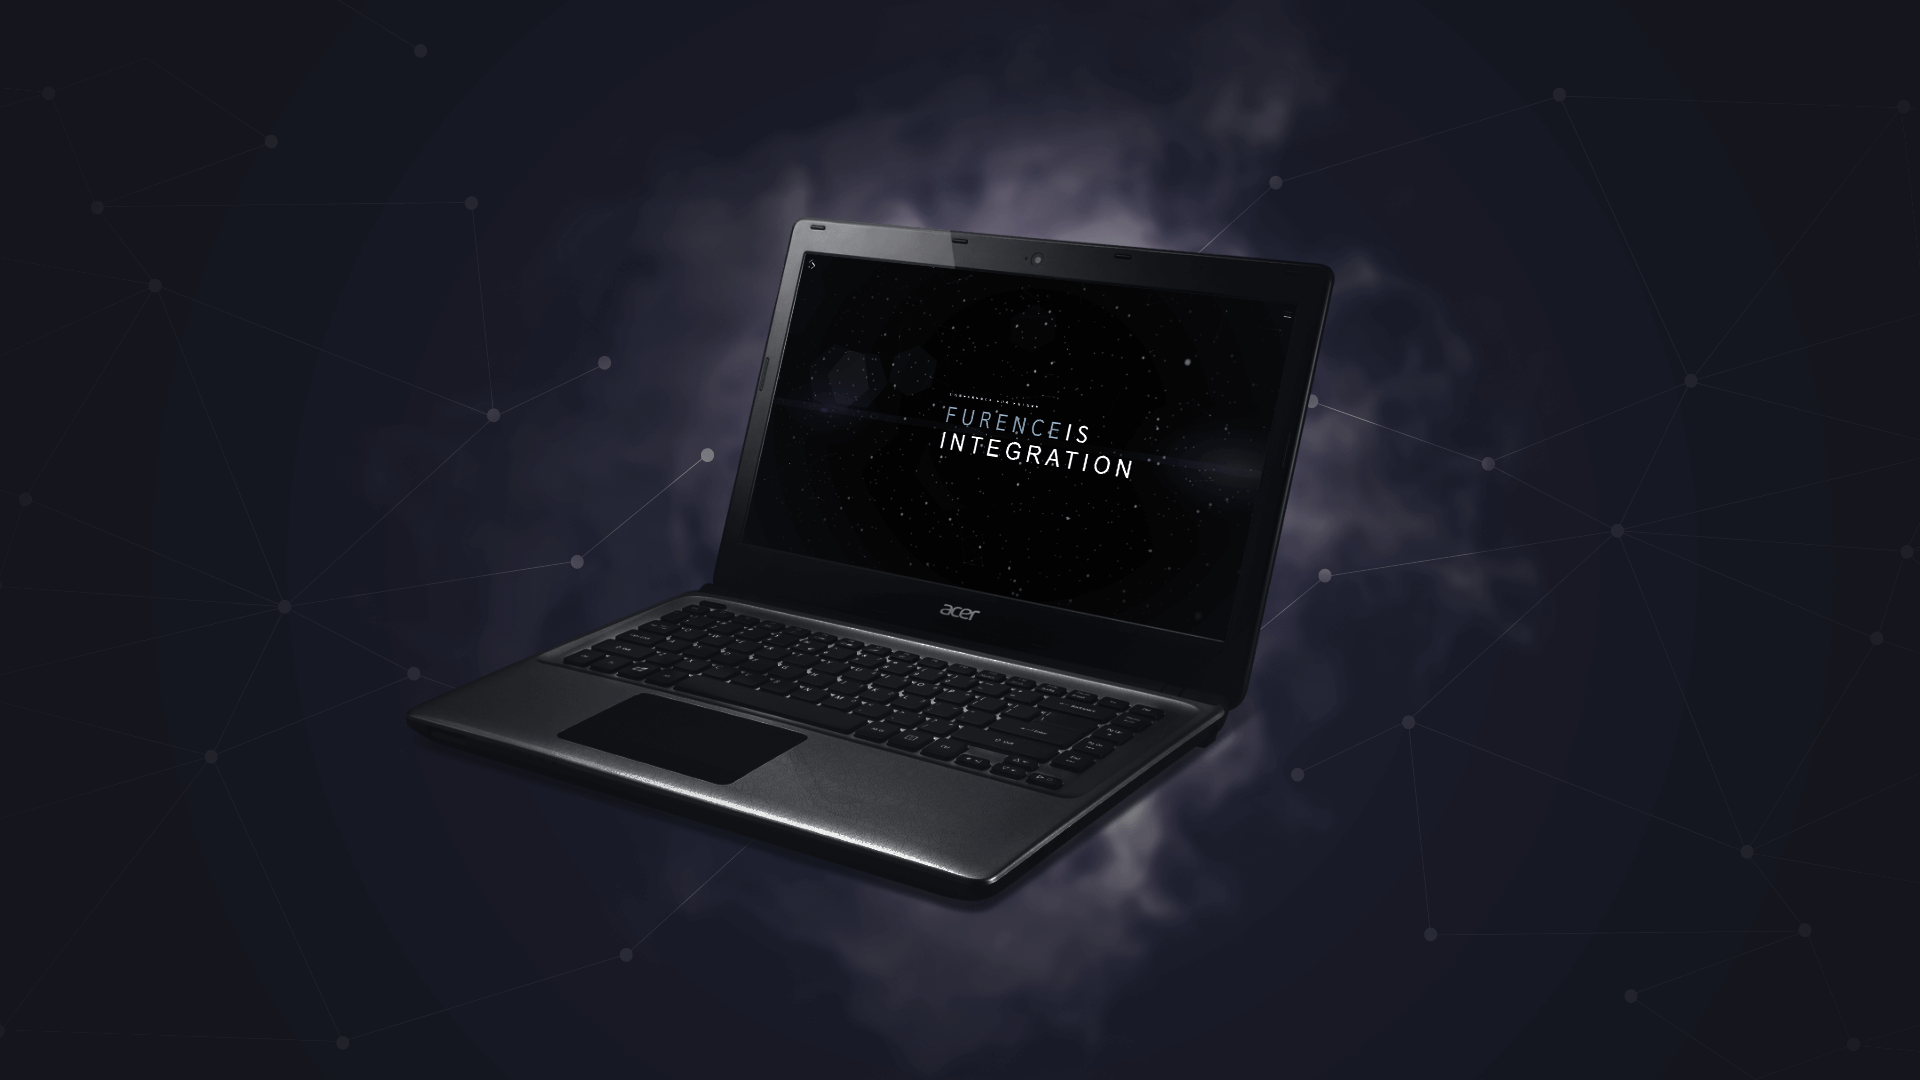
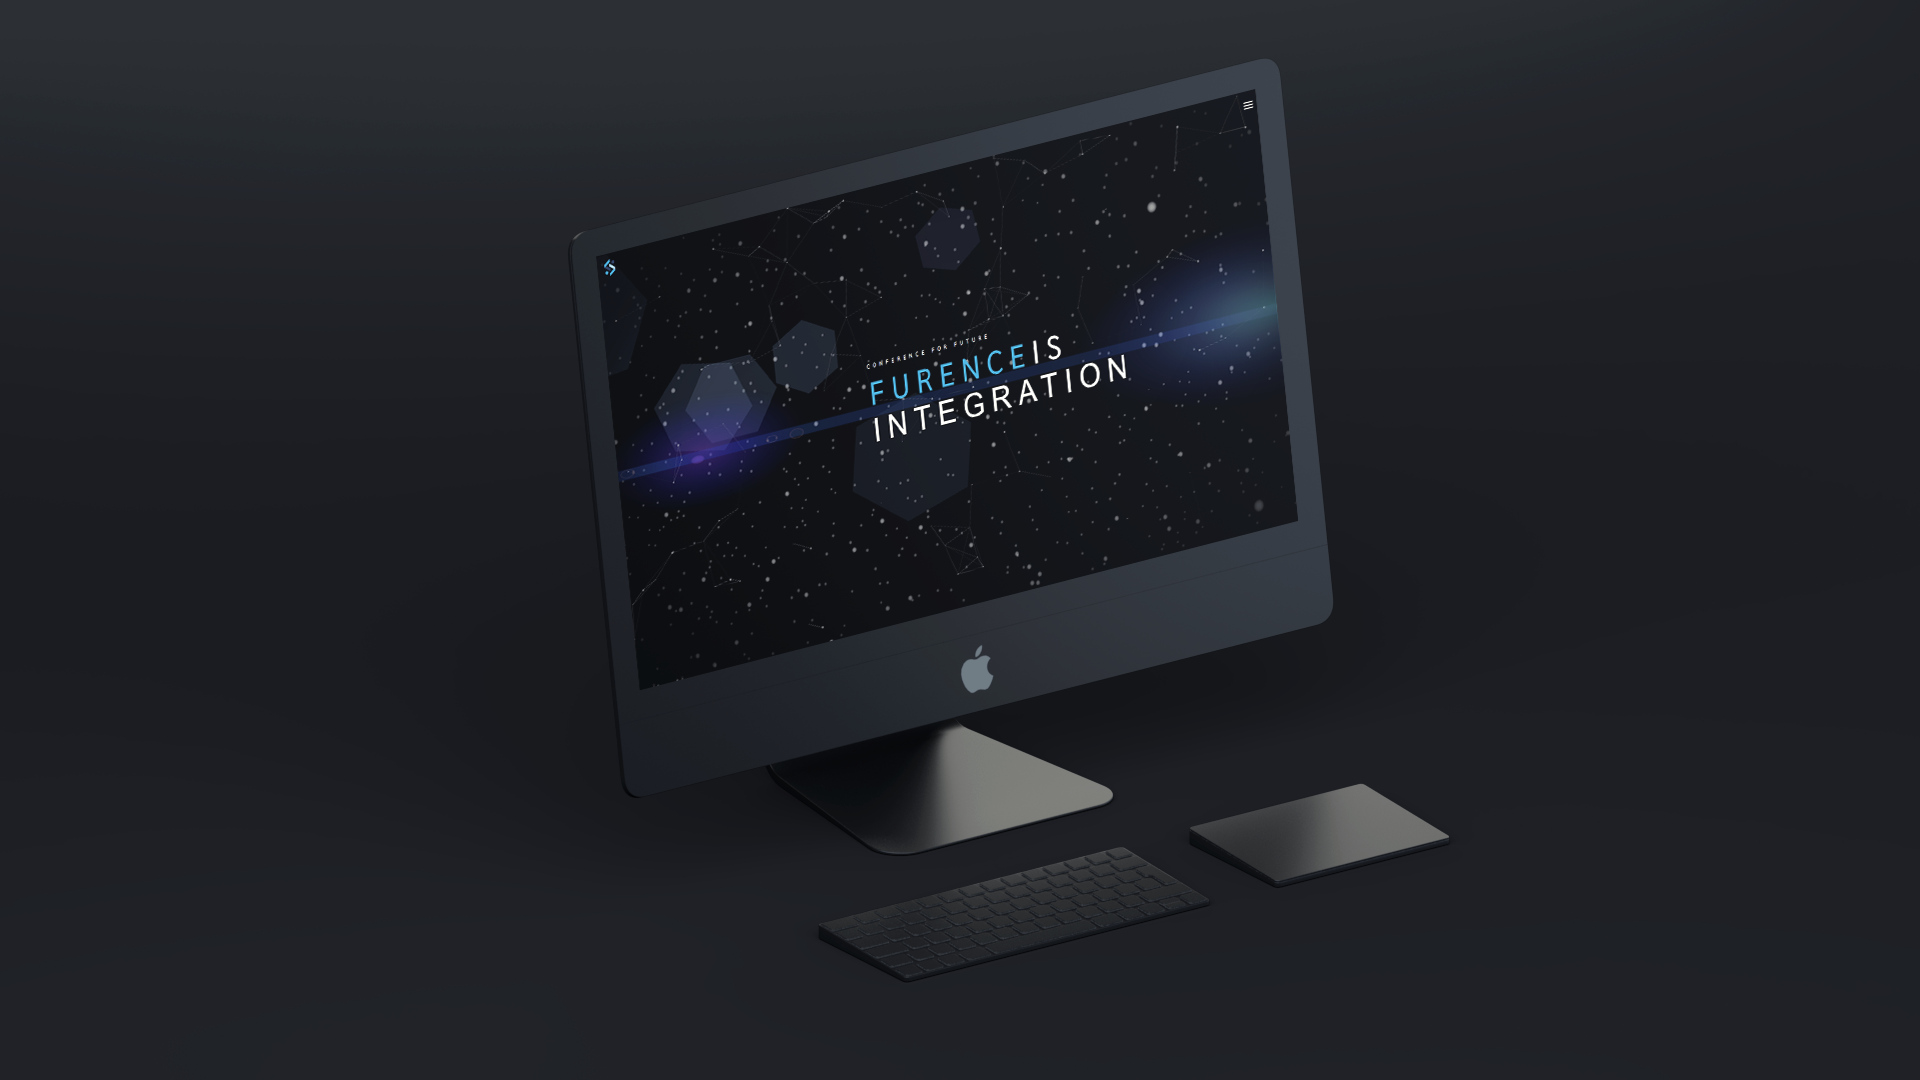
0519
changed images, color theme, ETC

diff --git a/css/style.css b/css/style.css
@@ -71,10 +71,7 @@ body {
     background: #111727;
     font-size: 4rem;
     padding: 0 5%;
-    color: #e8ebf1;
-    display: flex;
-    align-items: center;
-    justify-content: flex-start; }
+    color: #e8ebf1; }
     .wrapper .menu .mobile {
       font-size: 18px;
       line-height: 1.2;
@@ -109,6 +106,25 @@ body {
           transform-origin: bottom left;
           transform: scaleX(1) translate(0, 50%);
           background-color: #e8ebf1; }
+    .wrapper .menu div {
+      display: flex;
+      align-items: center;
+      justify-content: flex-start;
+      height: 100%; }
+    .wrapper .menu .menuWrapper {
+      float: left; }
+    .wrapper .menu .imageWrapper {
+      float: right;
+      width: 40%; }
+      .wrapper .menu .imageWrapper .preview {
+        width: 100%;
+        height: 80%;
+        background: url(../img/jun.png) no-repeat center center;
+        background-size: cover;
+        transition: .2; }
+      @media screen and (max-width: 576px) {
+        .wrapper .menu .imageWrapper {
+          display: none; } }
   .wrapper .top_bar {
     position: fixed;
     z-index: 1000;
@@ -175,7 +191,7 @@ body {
   width: 50px;
   z-index: 1110; }
   .toggle-menu span {
-    background-color: #fff;
+    background-color: #182338;
     content: "";
     display: block;
     height: 2px;
@@ -186,7 +202,7 @@ body {
     transition: background-color 0.2s ease-in-out, top 0.2s 0.2s ease-out,  transform 0.2s linear;
     width: 26px; }
     .toggle-menu span:before, .toggle-menu span:after {
-      background-color: #fff;
+      background-color: #182338;
       content: "";
       display: block;
       height: 2px;
@@ -205,10 +221,12 @@ body {
       transition: top 0.2s ease-out, transform 0.2s 0.2s ease-out; }
     .toggle-menu.active span:before {
       top: 0;
-      transform: rotate3d(0, 0, 1, -45deg); }
+      transform: rotate3d(0, 0, 1, -45deg);
+      background: #fff; }
     .toggle-menu.active span:after {
       top: 0;
-      transform: rotate3d(0, 0, 1, 45deg); }
+      transform: rotate3d(0, 0, 1, 45deg);
+      background: #fff; }
 
 .blog-slider {
   position: relative;
@@ -232,7 +250,7 @@ body {
   .blog-slider .profile .project-header {
     background: url("../img/jun.png") no-repeat; }
   .blog-slider .project01 .project-header {
-    background: url("../img/furence.jpg") no-repeat; }
+    background: url("../img/furence.png") no-repeat; }
   .blog-slider .project02 .project-header {
     background: url("../img/renewal.png") no-repeat; }
   .blog-slider .project03 .project-header {
@@ -354,7 +372,8 @@ body {
     position: absolute;
     right: 0;
     z-index: 200;
-    background: #182338;
+    background: #fff;
+    border-left: transparent;
     transition: all 0.5s; }
     @media screen and (max-width: 576px) {
       .blog-slider__item .content_wrapper {
@@ -517,15 +536,17 @@ body {
       transition: all 0.4s; }
     .blog-slider__content .info {
       font-size: 20px;
-      color: #9ea7c5;
+      color: #333;
       margin-top: 100px; }
       .blog-slider__content .info p {
         margin: 5px 0; }
       @media screen and (max-width: 576px) {
         .blog-slider__content .info {
           display: none; } }
+      .blog-slider__content .info .sns {
+        font-size: 26px; }
   .blog-slider__code {
-    color: #9ea7c5;
+    color: #333;
     display: block;
     font-weight: 300;
     font-size: 20px; }
@@ -537,7 +558,7 @@ body {
   .blog-slider__title {
     font-family: "Playfair Display", serif;
     font-size: 8vw;
-    color: #e8ebf1;
+    color: #182338;
     margin-bottom: 20px;
     line-height: 1; }
     @media screen and (max-width: 576px) {
@@ -545,7 +566,7 @@ body {
         font-size: 76px;
         margin-bottom: 8px; } }
   .blog-slider__text {
-    color: #9ea7c5;
+    color: #333;
     margin-bottom: 30px;
     line-height: 1.5em;
     font-size: 24px;
@@ -564,17 +585,15 @@ body {
     /*    position: relative;
     top: 280px;
     left: auto;*/
-    font-size: 30px;
+    font-size: 29px;
     margin-right: -80px;
     position: absolute;
     bottom: 0;
     left: 0; }
     .blog-slider__button a {
-      color: #9ea7c5;
+      color: #182338;
       padding: 5px 20px;
       transition: .2s; }
-      .blog-slider__button a:hover {
-        color: #e8ebf1; }
     @media screen and (max-width: 576px) {
       .blog-slider__button {
         font-size: 20px;
@@ -670,7 +689,7 @@ body {
     text-transform: capitalize;
     transition: 0.5s;
     font-size: 18px;
-    color: #e8ebf1;
+    color: #182338;
     font-weight: 300;
     /*    &.blog-button-prev {
           &:before {

diff --git a/scss/style.scss b/scss/style.scss
@@ -2,7 +2,7 @@
 @import url('https://fonts.googleapis.com/css?family=Catamaran|Karla|Khula|Muli|Quicksand|Tajawal');
 @import url('https://fonts.googleapis.com/css?family=Playfair+Display');
 $primary-color: #ec0f0f;
-$secondary-color: #3be4ff;
+$secondary-color: #182338;
 $shadow-color: rgba(80, 80, 80, 0.2);
 $white-blue:#e8ebf1;
 $dark-gray: #3a3a3a;
@@ -96,9 +96,6 @@ body {
     font-size: 4rem;
     padding: 0 5%;
     color: $white-blue;
-    display: flex;
-    align-items: center;
-    justify-content: flex-start;
     .mobile{
       font-size: 18px;
       line-height: 1.2;
@@ -140,7 +137,30 @@ body {
         }        
       }
     }
-
+    div{
+    display: flex;
+    align-items: center;
+    justify-content: flex-start;
+    // float: left;
+    height: 100%;
+    }
+    .menuWrapper{
+      float: left;
+    }
+    .imageWrapper{
+      float: right;
+      width: 40%;
+      .preview{
+        width: 100%;
+        height: 80%;
+        background: url(../img/jun.png) no-repeat center center;
+        background-size: cover; 
+        transition: .2;      
+      }
+      @media screen and (max-width: 576px){
+        display: none;
+      }
+    }
   }
 
   .top_bar {
@@ -217,7 +237,7 @@ body {
   }
 }
 $menu-zindex: 1100;
-$hamburger-color: #fff;
+$hamburger-color: $secondary-color;
 $hamburger-width: 50px;
 $hamburger-height: 50px;
 $hamburger-zindex: $menu-zindex + 10;
@@ -281,11 +301,13 @@ $hamburger-zindex: $menu-zindex + 10;
       &:before {
         top: 0;
         transform: rotate3d(0, 0, 1, -45deg);
+        background: #fff;
       }
 
       &:after {
         top: 0;
         transform: rotate3d(0, 0, 1, 45deg);
+        background: #fff;
       }
     }
   }
@@ -320,7 +342,7 @@ $hamburger-zindex: $menu-zindex + 10;
   }
 
   .project01 .project-header {
-    background: url("../img/furence.jpg") no-repeat;
+    background: url("../img/furence.png") no-repeat;
   }
   .project02 .project-header {
     background: url("../img/renewal.png") no-repeat;
@@ -450,7 +472,8 @@ $hamburger-zindex: $menu-zindex + 10;
       position: absolute;
       right: 0;
       z-index: 200;
-      background: #182338;
+      background: #fff;
+      border-left: transparent;
       transition: all 0.5s;
       @media screen and (max-width: 576px) {
         background: none;
@@ -644,7 +667,7 @@ $hamburger-zindex: $menu-zindex + 10;
     }
     .info{
       font-size: 20px;
-      color: $grey-blue;
+      color: #333;
       margin-top: 100px;
       p{
         margin: 5px 0;
@@ -652,11 +675,14 @@ $hamburger-zindex: $menu-zindex + 10;
       @media screen and (max-width: 576px){
         display: none;
       }
+      .sns{
+        font-size:26px;
+      }
     }
   }
 
   &__code {
-    color: $grey-blue;
+    color: #333;
     display: block;
     font-weight: 300;
     font-size: 20px;
@@ -671,7 +697,7 @@ $hamburger-zindex: $menu-zindex + 10;
     font-family: $secondary-font;
     font-size:8vw;
     // font-weight: 700;
-    color: $white-blue;
+    color: $secondary-color;
     margin-bottom: 20px;
     line-height: 1;
     @media screen and (max-width: 576px) {
@@ -681,7 +707,7 @@ $hamburger-zindex: $menu-zindex + 10;
   }
 
   &__text {
-    color: $grey-blue;
+    color: #333;
     margin-bottom: 30px;
     line-height: 1.5em;
     font-size: 24px;
@@ -708,18 +734,18 @@ $hamburger-zindex: $menu-zindex + 10;
     /*    position: relative;
     top: 280px;
     left: auto;*/
-    font-size: 30px;
+    font-size: 29px;
     margin-right: -80px;
     position: absolute;
     bottom:0;
     left:0;
 
     a {
-      color: $grey-blue;
+      color: $secondary-color;
       padding: 5px 20px;
       transition: .2s;
       &:hover{
-        color: $white-blue;
+        // color: $white-blue;
       }
     }
     @media screen and (max-width: 576px) {
@@ -852,7 +878,7 @@ $hamburger-zindex: $menu-zindex + 10;
     text-transform: capitalize;
     transition: 0.5s;
     font-size: 18px;
-    color: $white-blue;
+    color: $secondary-color;
     font-weight: 300;
 
     &:hover {

diff --git a/index.html b/index.html
@@ -65,6 +65,7 @@
           </div>
         </div>
       </div>
+      <div class="imageWrapper"><div class="preview"></div></div>
     </div>
     <div class="blog-slider">
       <div class="blog-slider__wrp swiper-wrapper">
@@ -83,6 +84,7 @@
                 <p><a href="mailto:vancityjun@gmail.com">vancityjun@gmail.com</a>
                 </p>
                 <div class="sns">
+                  <a href="https://github.com/vancityjun"><i class="fab fa-github"></i></a>
                   <a href="https://www.facebook.com/vancityjun"><i class="fab fa-facebook-square"></i></a>
                   <a href="https://www.instagram.com/vancityjun"><i class="fab fa-instagram"></i></a>
                 </div>

diff --git a/js/index.js b/js/index.js
@@ -99,6 +99,8 @@ $(function() {
     $('.toggle-menu').removeClass('active');
     $('.menu').fadeOut(600);
     contentClose(400);
+    $(this).parents().siblings().find('.link').removeClass('active');
+    $(this).addClass('active');
   });
 
   $('.scrollDown').on('click', function(e) {
@@ -106,7 +108,6 @@ $(function() {
     $('.scroll').animate({
       scrollTop: $('.project-content').offset().top
     }, 500, 'linear');
-
   });
 });
 
